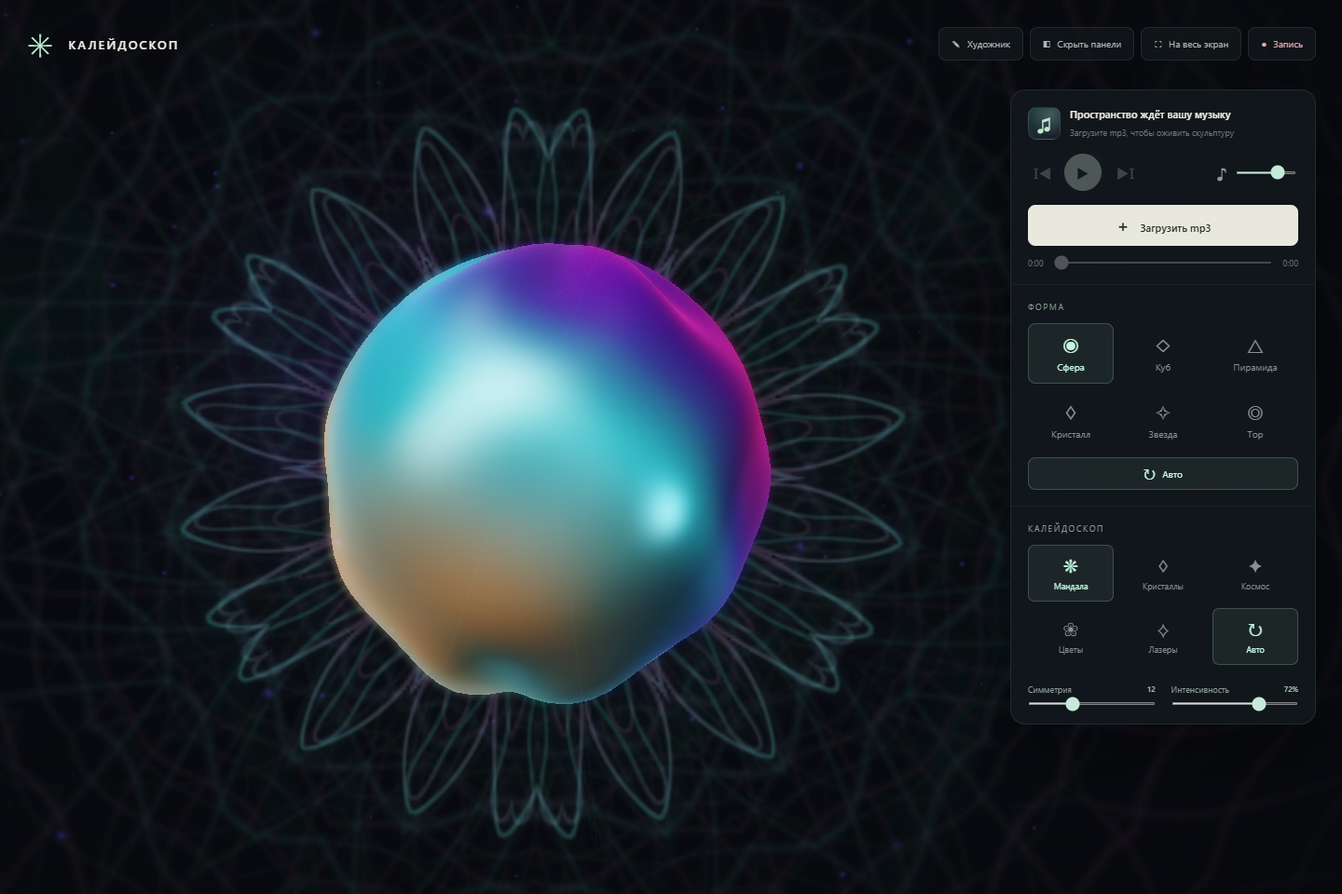
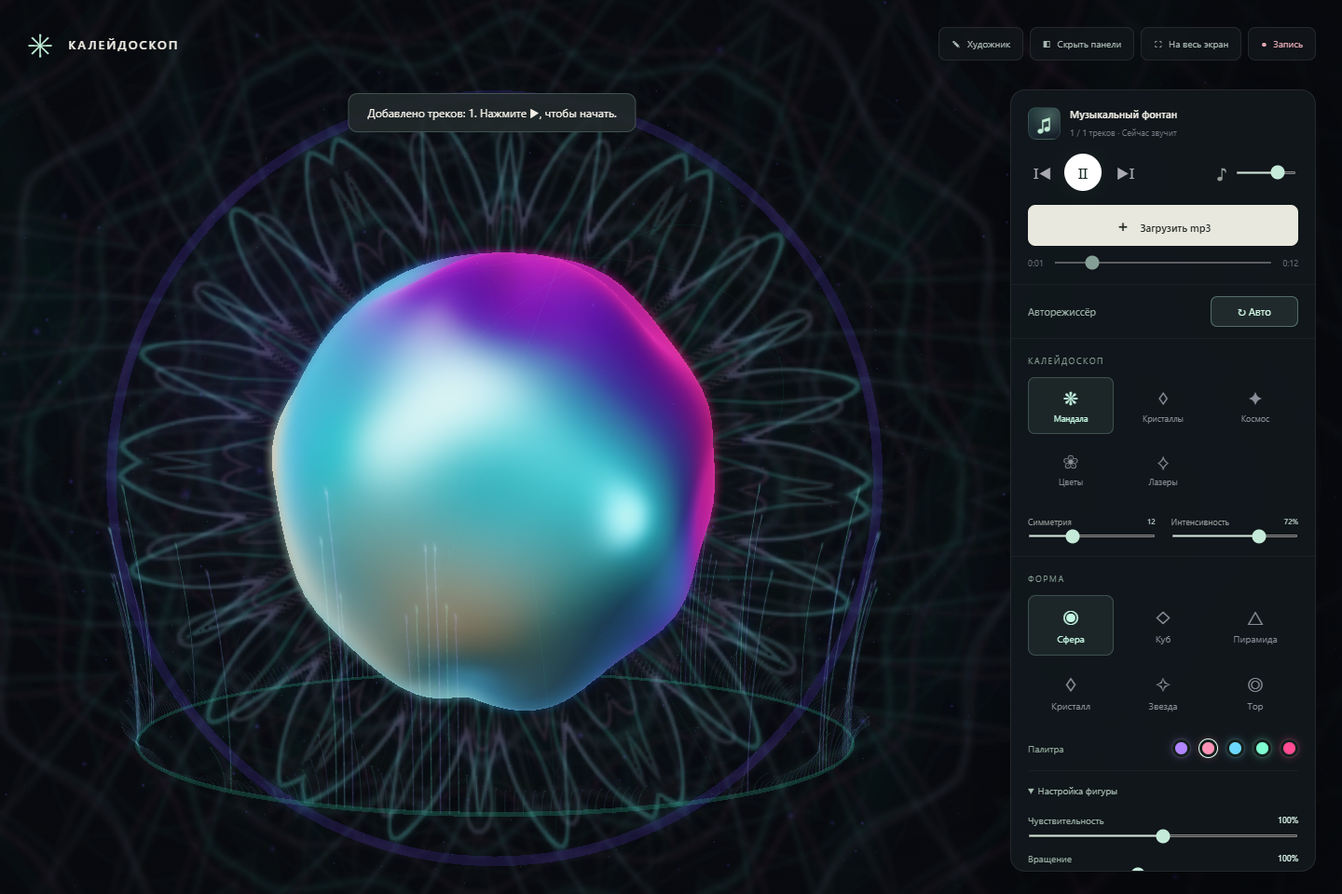
Add spectral fountain and sculpture controls; unify show automation

diff --git a/js/visual.js b/js/visual.js
@@ -1,5 +1,6 @@
 import * as T from '../vendor/three.module.js';
 import {Kaleidoscope} from './kaleidoscope.js';
+import {SpectralFountain} from './fountain.js';
 
 const vertex=`
 attribute vec3 target, surfaceNormal, targetNormal;
@@ -11,7 +12,7 @@ vec3 smoothNormal=normalize(mix(surfaceNormal,targetNormal,morph));
 vNormal=normalMatrix*normalize(smoothNormal+n*wave*.025);
 vec4 mv=modelViewMatrix*vec4(p,1.);vView=mv.xyz;gl_Position=projectionMatrix*mv;}`;
 const fragment=`
-uniform float time,mid,energy,volume,beat,hue,saturation,showAccent;varying vec3 vP,vView,vNormal;
+uniform float time,mid,energy,volume,beat,hue,saturation,showAccent,brightness;varying vec3 vP,vView,vNormal;
 vec3 palette(float t){
   vec3 violet=vec3(.24,.025,.55),pink=vec3(.95,.055,.34);
   vec3 amber=vec3(1.,.37,.045),cyan=vec3(.035,.57,.66);
@@ -35,7 +36,7 @@ color+=palette(flow+.83)*rim*(.7+volume*.4+beat*.75);
 color+=mix(col,vec3(1.,.78,.65),.65)*softSpec*.65;
 color+=vec3(.4,.85,1.)*glint*.65;
 color=mix(vec3(dot(color,vec3(.2126,.7152,.0722))),color,saturation);
-gl_FragColor=vec4(color*(1.+volume*.35+beat*.85+showAccent*.75),1.);}`;
+gl_FragColor=vec4(color*(1.+volume*.35+beat*.85+showAccent*.75)*brightness,1.);}`;
 
 // Identical UV triangle layout for all shapes, including the torus. Only the
 // attributes change at selection; the transition itself is evaluated on GPU.
@@ -62,31 +63,32 @@ function shapes(){
 export class Visual {
  constructor(host,onQuality){
   this.host=host;this.onQuality=onQuality;this.renderer=new T.WebGLRenderer({antialias:false,powerPreference:'high-performance'});host.append(this.renderer.domElement);this.renderer.setClearColor(0x07080b);this.scene=new T.Scene();this.camera=new T.PerspectiveCamera(38,1,.1,60);this.camera.position.set(0,0,7.5);
-  this.uniforms={time:{value:0},morph:{value:1},bass:{value:0},mid:{value:0},energy:{value:0},volume:{value:0},beat:{value:0},hue:{value:0},saturation:{value:1},showAccent:{value:0}};
+  this.uniforms={time:{value:0},morph:{value:1},bass:{value:0},mid:{value:0},energy:{value:0},volume:{value:0},beat:{value:0},hue:{value:0},saturation:{value:1},showAccent:{value:0},brightness:{value:1},effects:{value:1}};
+  this.controls={rotation:1,brightness:1,size:1,effects:1,palette:0};this.qualityMode='auto';
   const data=shapes();this.arrays=data.arrays;this.normals=data.normals;this.geometry=new T.BufferGeometry();this.geometry.setAttribute('position',new T.BufferAttribute(data.arrays[0].slice(),3));this.geometry.setAttribute('target',new T.BufferAttribute(data.arrays[0].slice(),3));this.geometry.setAttribute('surfaceNormal',new T.BufferAttribute(data.normals[0].slice(),3));this.geometry.setAttribute('targetNormal',new T.BufferAttribute(data.normals[0].slice(),3));this.geometry.boundingSphere=new T.Sphere(new T.Vector3(),3);
   // Smooth pearlescent skin: no wire overlay or duplicate inner silhouette.
   this.material=new T.ShaderMaterial({uniforms:this.uniforms,vertexShader:vertex,fragmentShader:fragment,side:T.DoubleSide});this.group=new T.Group();this.mesh=new T.Mesh(this.geometry,this.material);this.group.add(this.mesh);this.scene.add(this.group);this.group.rotation.set(.15,.2,-.13);
   this.kaleidoscope=new Kaleidoscope();this.scene.background=this.kaleidoscope.targetTexture.texture;
-  this.makeAtmosphere();this.makeBeatEffects();this.makePost();this.quality=1;this.slow=0;this.frames=0;this.totalTime=0;this.drag=false;this.vx=0;this.vy=0;this.auto=1;
+  this.makeAtmosphere();this.makeBeatEffects();this.makePost();this.fountain=new SpectralFountain(this.kaleidoscope.tint,this.kaleidoscope.tintSecondary);this.scene.add(this.fountain.group);this.quality=1;this.slow=0;this.frames=0;this.totalTime=0;this.drag=false;this.vx=0;this.vy=0;this.auto=1;
   this.interactionHold=0;this.userCamera={yaw:0,pitch:0,zoom:1};this.cameraMotion={yaw:0,pitch:0,zoom:1};this.frameCenter=new T.Vector2(.58,.5);this.averageFps=60;this.bind();this.resize();
  }
  makeAtmosphere(){
   const count=1800,p=new Float32Array(count*3),seed=new Float32Array(count);for(let i=0;i<count;i++){p[i*3]=(Math.random()-.5)*17;p[i*3+1]=(Math.random()-.5)*11;p[i*3+2]=(Math.random()-.5)*13;seed[i]=Math.random();}
   const g=new T.BufferGeometry();g.setAttribute('position',new T.BufferAttribute(p,3));g.setAttribute('seed',new T.BufferAttribute(seed,1));this.particleGeometry=g;
-  this.particleUniforms={time:this.uniforms.time,high:{value:0},energy:this.uniforms.energy,pixel:{value:1},tint:{value:this.kaleidoscope.tint},tintSecondary:{value:this.kaleidoscope.tintSecondary}};
-  this.particles=new T.Points(g,new T.ShaderMaterial({uniforms:this.particleUniforms,transparent:true,depthWrite:false,blending:T.AdditiveBlending,vertexShader:`attribute float seed;uniform float time,high,pixel;varying float s;void main(){s=seed;vec3 p=position;p.x+=sin(time*.07+seed*12.)*.7;p.y+=sin(time*.1+seed*20.)*.5;p.z+=sin(time*.08+seed*30.)*1.2;vec4 mv=modelViewMatrix*vec4(p,1.);gl_PointSize=min(28.,(1.5+pow(seed,12.)*30.+high*4.)*pixel*6./max(1.,-mv.z));gl_Position=projectionMatrix*mv;}`,fragmentShader:`uniform float time,high;uniform vec3 tint,tintSecondary;varying float s;void main(){float d=length(gl_PointCoord-.5)*2.;if(d>1.)discard;float a=pow(1.-d,3.)*(.3+high*.65)*(.7+.3*sin(time*(1.+high*4.)+s*40.));vec3 c=mix(tint,tintSecondary,s);gl_FragColor=vec4(c,a);}`}));this.scene.add(this.particles);
+  this.particleUniforms={fx:this.uniforms.effects,time:this.uniforms.time,high:{value:0},energy:this.uniforms.energy,pixel:{value:1},tint:{value:this.kaleidoscope.tint},tintSecondary:{value:this.kaleidoscope.tintSecondary}};
+  this.particles=new T.Points(g,new T.ShaderMaterial({uniforms:this.particleUniforms,transparent:true,depthWrite:false,blending:T.AdditiveBlending,vertexShader:`attribute float seed;uniform float time,high,pixel;varying float s;void main(){s=seed;vec3 p=position;p.x+=sin(time*.07+seed*12.)*.7;p.y+=sin(time*.1+seed*20.)*.5;p.z+=sin(time*.08+seed*30.)*1.2;vec4 mv=modelViewMatrix*vec4(p,1.);gl_PointSize=min(28.,(1.5+pow(seed,12.)*30.+high*4.)*pixel*6./max(1.,-mv.z));gl_Position=projectionMatrix*mv;}`,fragmentShader:`uniform float time,high,fx;uniform vec3 tint,tintSecondary;varying float s;void main(){float d=length(gl_PointCoord-.5)*2.;if(d>1.)discard;float a=pow(1.-d,3.)*(.3+high*.65)*(.7+.3*sin(time*(1.+high*4.)+s*40.));vec3 c=mix(tint,tintSecondary,s);gl_FragColor=vec4(c,a*fx);}`}));this.scene.add(this.particles);
   this.orbits=new T.Group();this.scene.add(this.orbits);for(let k=0;k<5;k++){const verts=[],colors=[];const color=new T.Color();for(let i=0;i<=256;i++){let a=i/256*Math.PI*2;verts.push(Math.cos(a)*(2.05+k*.12),Math.sin(a)*(2.05+k*.12),0);color.setHSL(.47+i/256*.35,.7,.5);colors.push(color.r,color.g,color.b);}let geo=new T.BufferGeometry();geo.setAttribute('position',new T.Float32BufferAttribute(verts,3));geo.setAttribute('color',new T.Float32BufferAttribute(colors,3));const line=new T.Line(geo,new T.LineBasicMaterial({vertexColors:true,transparent:true,opacity:.08+k*.012,blending:T.AdditiveBlending,depthWrite:false}));line.rotation.set(.95+k*.2,.2+k*.5,k*.6);this.orbits.add(line);}
   // One generated glow texture, shared by all atmospheric sprites.
   const canvas=document.createElement('canvas');canvas.width=canvas.height=128;const ctx=canvas.getContext('2d'),grad=ctx.createRadialGradient(64,64,0,64,64,64);grad.addColorStop(0,'#ffffff');grad.addColorStop(.15,'#ffffff80');grad.addColorStop(.5,'#ffffff19');grad.addColorStop(1,'#ffffff00');ctx.fillStyle=grad;ctx.fillRect(0,0,128,128);const texture=new T.CanvasTexture(canvas);this.glows=[];
   [[0,0,-2,6,0x127c78,.15],[1,-.5,-4,6,0x8d2259,.13],[-2,1,-5,8,0x153c50,.11],[-2.9,.8,1.3,3,0x65cbb3,.04],[2.8,-.8,2,2.4,0xa66ec4,.04],[-3,-2,3,1.2,0x94c5d9,.035],[3,2,-1,1.8,0xcc87b0,.05]].forEach(([x,y,z,size,color,opacity])=>{const sp=new T.Sprite(new T.SpriteMaterial({map:texture,color,transparent:true,opacity,blending:T.AdditiveBlending,depthWrite:false}));sp.position.set(x,y,z);sp.scale.set(size,size,1);sp.userData.opacity=opacity;this.scene.add(sp);this.glows.push(sp);});
   const rayGeometry=new T.PlaneGeometry(1,1);this.rays=new T.Group();
-  const rayMaterial=new T.ShaderMaterial({uniforms:{time:this.uniforms.time,energy:this.uniforms.energy,beat:this.uniforms.beat,tint:{value:this.kaleidoscope.tint}},transparent:true,depthWrite:false,side:T.DoubleSide,blending:T.AdditiveBlending,vertexShader:`varying vec2 vUv;void main(){vUv=uv;gl_Position=projectionMatrix*modelViewMatrix*vec4(position,1.);}`,fragmentShader:`varying vec2 vUv;uniform float time,energy,beat;uniform vec3 tint;void main(){float width=.09+.12*vUv.y;float shaft=exp(-pow((vUv.x-.5)/width,2.));float fade=pow(sin(vUv.y*3.14159),2.);float haze=.7+.3*sin(vUv.y*9.+time*.14);gl_FragColor=vec4(tint,shaft*fade*haze*(.025+energy*.035+beat*.025));}`});
+  const rayMaterial=new T.ShaderMaterial({uniforms:{time:this.uniforms.time,energy:this.uniforms.energy,beat:this.uniforms.beat,fx:this.uniforms.effects,tint:{value:this.kaleidoscope.tint}},transparent:true,depthWrite:false,side:T.DoubleSide,blending:T.AdditiveBlending,vertexShader:`varying vec2 vUv;void main(){vUv=uv;gl_Position=projectionMatrix*modelViewMatrix*vec4(position,1.);}`,fragmentShader:`varying vec2 vUv;uniform float time,energy,beat,fx;uniform vec3 tint;void main(){float width=.09+.12*vUv.y;float shaft=exp(-pow((vUv.x-.5)/width,2.));float fade=pow(sin(vUv.y*3.14159),2.);float haze=.7+.3*sin(vUv.y*9.+time*.14);gl_FragColor=vec4(tint,shaft*fade*haze*(.025+energy*.035+beat*.025)*fx);}`});
   for(let i=0;i<7;i++){const ray=new T.Mesh(rayGeometry,rayMaterial);ray.position.set((i-3)*1.45,.5,-3+(i%3)*2.3);ray.scale.set(.65+i%2*.6,9+i%3,1);ray.rotation.z=(i-3)*-.17;this.rays.add(ray);}this.scene.add(this.rays);
  }
  makeBeatEffects(){
   // Four fixed slots allow overlapping beats without allocating per hit.
   this.beatWaves=[];const geometry=new T.RingGeometry(1,1.026,128);
-  this.burstUniforms={pulses:{value:Array.from({length:4},()=>new T.Vector4(2,0,0,0))},pixel:{value:1},tint:{value:this.kaleidoscope.tint},tintSecondary:{value:this.kaleidoscope.tintSecondary}};
+  this.burstUniforms={fx:this.uniforms.effects,pulses:{value:Array.from({length:4},()=>new T.Vector4(2,0,0,0))},pixel:{value:1},tint:{value:this.kaleidoscope.tint},tintSecondary:{value:this.kaleidoscope.tintSecondary}};
   for(let i=0;i<4;i++){
    const material=new T.MeshBasicMaterial({color:i%2?0xf778ba:0x8effec,transparent:true,opacity:0,blending:T.AdditiveBlending,side:T.DoubleSide,depthWrite:false});
    const wave=new T.Mesh(geometry,material);wave.visible=false;this.scene.add(wave);this.beatWaves.push(wave);
@@ -100,7 +102,7 @@ export class Visual {
     float radius=1.5+age*(2.5+seed*1.5);vec3 p=position*radius;p.y-=age*age*.3;
     alpha=alive*strength*pow(max(0.,1.-age/1.05),2.)*min(1.,age/.012);
     vTint=mix(tint,tintSecondary,seed);vec4 mv=modelViewMatrix*vec4(p,1.);gl_PointSize=(2.+seed*3.)*pixel*5./max(1.,-mv.z);gl_Position=projectionMatrix*mv;}`,
-   fragmentShader:`varying float alpha;varying vec3 vTint;void main(){float r=length(gl_PointCoord-.5)*2.;if(r>1.)discard;gl_FragColor=vec4(vTint,alpha*pow(1.-r,1.6));}`}));this.scene.add(this.burst);
+   fragmentShader:`uniform float fx;varying float alpha;varying vec3 vTint;void main(){float r=length(gl_PointCoord-.5)*2.;if(r>1.)discard;gl_FragColor=vec4(vTint,alpha*pow(1.-r,1.6)*fx);}`}));this.scene.add(this.burst);
  }
  makePost(){
   this.base=new T.WebGLRenderTarget(1,1);this.bloom=new T.WebGLRenderTarget(1,1,{depthBuffer:false});this.postScene=new T.Scene();this.postCamera=new T.OrthographicCamera(-1,1,1,-1,0,1);this.postUniforms={image:{value:this.base.texture},glow:{value:this.bloom.texture},texel:{value:new T.Vector2()},pass:{value:0},energy:this.uniforms.energy};
@@ -120,7 +122,7 @@ export class Visual {
   const freeWidth=sidebar?Math.max(300,bounds.left-28):w;
   const top=hidden?h*.07:w<760?116:96,bottom=hidden?h*.93:sidebar?h-28:bounds.top-hostTop-20;
   const available=Math.max(145,bottom-top),centerY=top+available*.5,centerX=sidebar?freeWidth*.5/w:.5;
-  this.diameter=Math.min(freeWidth*.8,available*.9);this.layoutX=centerX;this.layoutY=centerY/h;
+  this.diameter=Math.min(freeWidth*.8,available*.9);this.freeWidth=freeWidth;this.freeHeight=available;this.layoutX=centerX;this.layoutY=centerY/h;
   const dpr=Math.min(devicePixelRatio,1.65)*this.quality;
   this.renderer.setPixelRatio(dpr);this.renderer.setSize(w,h);this.camera.aspect=w/h;
   this.camera.setViewOffset(w,h,w*(.5-this.frameCenter.x),h*(.5-this.frameCenter.y),w,h);this.camera.updateProjectionMatrix();
@@ -133,7 +135,8 @@ export class Visual {
   m.yaw+=((manual?u.yaw:show.cameraYaw+u.yaw)-m.yaw)*ease;m.pitch+=((manual?u.pitch:show.cameraPitch+u.pitch)-m.pitch)*ease;m.zoom+=((manual?u.zoom:show.zoom*u.zoom)-m.zoom)*ease;
   this.frameCenter.x+=(this.layoutX-this.frameCenter.x)*ease;this.frameCenter.y+=(this.layoutY-this.frameCenter.y)*ease;
   const fov=this.camera.fov+(show.fov-this.camera.fov)*returnEase,tan=Math.tan(fov*Math.PI/360);
-  const wanted=4.65*this.height/(2*tan*this.diameter)*m.zoom,safe=4.35*this.height/(2*tan*this.diameter);
+  const extent=5.5+Math.max(0,this.controls.size-1)*2.6;
+  const wanted=4.65*this.height/(2*tan*this.diameter)*m.zoom,safe=Math.max(4.35*this.height/(2*tan*this.diameter),extent*this.height/(2*tan*this.freeWidth*.92));
   m.distance??=wanted;m.distance+=(wanted-m.distance)*ease;const distance=Math.max(m.distance,safe);
   this.camera.position.set(Math.sin(m.yaw)*distance,Math.sin(m.pitch)*distance,Math.cos(m.yaw)*distance);this.camera.lookAt(0,0,0);
   this.camera.fov=fov;this.camera.setViewOffset(this.width,this.height,this.width*(.5-this.frameCenter.x),this.height*(.5-this.frameCenter.y),this.width,this.height);this.camera.updateProjectionMatrix();
@@ -141,18 +144,22 @@ export class Visual {
  }
  update(dt,t,music,show){if(this.lost)return;const u=this.uniforms;u.time.value=t;for(const k of ['bass','mid','energy','volume','beat'])u[k].value=music[k];this.particleUniforms.high.value=music.high;
   this.averageFps+=(Math.min(120,1/Math.max(.001,dt))-this.averageFps)*(1-Math.exp(-dt));
-  u.hue.value=show.palette;u.saturation.value=show.saturation;u.showAccent.value=show.accent;
-  this.updateCamera(dt,show);this.kaleidoscope.update(dt,t,music,show);
+  const controls=this.controls,fx=controls.effects;
+  u.hue.value=show.palette+controls.palette;u.saturation.value=show.saturation;u.showAccent.value=show.accent;u.brightness.value+=(controls.brightness-u.brightness.value)*(1-Math.exp(-dt*6));u.effects.value=fx;
+  this.kaleidoscope.paletteOffset=controls.palette;this.updateCamera(dt,show);this.kaleidoscope.update(dt,t,music,show);this.fountain.update(t,music,controls.size,fx*show.atmosphere);
   if(u.morph.value<1){this.morphTime+=dt/2.1;const x=Math.min(1,this.morphTime);u.morph.value=x*x*(3-2*x);}
-  this.group.scale.setScalar(1+.15*music.beat);
+  this.group.scale.setScalar(controls.size*(1+.15*music.beat));
   for(let i=0;i<4;i++){const pulse=music.pulses[i],age=pulse?.age??2,strength=pulse?.strength??0,wave=this.beatWaves[i];this.burstUniforms.pulses.value[i].set(age,strength,0,0);wave.material.color.copy(i%2?this.kaleidoscope.tintSecondary:this.kaleidoscope.tint);wave.visible=age<1.05&&strength>0;if(wave.visible){wave.scale.setScalar(1.55+age*3.1);wave.material.opacity=strength*Math.min(1,age/.012)*Math.exp(-age*4.4)*.75;}}
-  this.auto+=((this.drag||this.artist?.drawing?0:1)-this.auto)*(1-Math.exp(-dt*2));this.group.rotation.y+=dt*(.13+music.energy*.045)*show.motion*this.auto+this.vy;this.group.rotation.x+=dt*.032*show.motion*this.auto+this.vx;const damping=Math.exp(-dt*12);this.vx*=damping;this.vy*=damping;
+  this.auto+=((this.drag||this.artist?.drawing?0:1)-this.auto)*(1-Math.exp(-dt*2));this.group.rotation.y+=dt*(.13+music.energy*.045)*show.motion*controls.rotation*this.auto+this.vy;this.group.rotation.x+=dt*.032*show.motion*controls.rotation*this.auto+this.vx;const damping=Math.exp(-dt*12);this.vx*=damping;this.vy*=damping;
   this.orbits.rotation.y=t*.025;this.orbits.rotation.z=Math.sin(t*.05)*.15;this.particles.rotation.y=t*.008;this.rays.rotation.z=Math.sin(t*.07)*.06;
-  this.orbits.children.forEach(line=>{line.material.color.copy(this.kaleidoscope.tint);line.material.opacity=.045+music.energy*.04;});
-  this.glows.forEach((g,i)=>{g.material.color.copy(this.kaleidoscope.tint).lerp(this.kaleidoscope.tintSecondary,(i%3)*.5);g.material.opacity=(g.userData.opacity+music.volume*.05+music.beat*.025)*(1+Math.sin(t*.3+i)*.15)*show.atmosphere;});
+  this.orbits.children.forEach(line=>{line.material.color.copy(this.kaleidoscope.tint);line.material.opacity=(.045+music.energy*.04)*fx;});
+  this.particles.visible=this.rays.visible=this.burst.visible=fx>.001;
+  this.beatWaves.forEach(wave=>{wave.material.opacity*=fx;if(fx===0)wave.visible=false;});
+  this.glows.forEach((g,i)=>{g.material.color.copy(this.kaleidoscope.tint).lerp(this.kaleidoscope.tintSecondary,(i%3)*.5);g.material.opacity=(g.userData.opacity+music.volume*.05+music.beat*.025)*(1+Math.sin(t*.3+i)*.15)*show.atmosphere*fx;});
   const r=this.renderer;this.kaleidoscope.render(r);r.setRenderTarget(this.base);r.render(this.scene,this.camera);this.postUniforms.pass.value=0;this.postUniforms.glow.value=null;r.setRenderTarget(this.bloom);r.render(this.postScene,this.postCamera);this.postUniforms.pass.value=1;this.postUniforms.glow.value=this.bloom.texture;r.setRenderTarget(null);r.render(this.postScene,this.postCamera);
-  if(dt<.2){this.frames++;this.totalTime+=dt;if(this.frames>=150){const fps=this.frames/this.totalTime;if(fps<43)this.slow++;else this.slow=0;if(this.slow>=2&&this.quality>.55){this.quality=Math.max(.55,this.quality-.2);this.particleGeometry.setDrawRange(0,Math.floor(1800*this.quality));this.resize();this.onQuality('ЭКОНОМНЫЙ РЕЖИМ');this.slow=0;}this.frames=0;this.totalTime=0;}}
+  if(dt<.2&&this.qualityMode==='auto'){this.frames++;this.totalTime+=dt;if(this.frames>=150){const fps=this.frames/this.totalTime;if(fps<43)this.slow++;else this.slow=0;if(this.slow>=2&&this.quality>.55){this.quality=Math.max(.55,this.quality-.2);this.particleGeometry.setDrawRange(0,Math.floor(1800*this.quality));this.resize();this.onQuality('ЭКОНОМНЫЙ РЕЖИМ');this.slow=0;}this.frames=0;this.totalTime=0;}}
  }
+ setQuality(mode){this.qualityMode=mode;this.quality=({auto:1,high:1,balanced:.78,low:.55})[mode]??1;this.frames=this.totalTime=this.slow=0;this.particleGeometry.setDrawRange(0,Math.floor(1800*this.quality));this.resize();}
  dispose(){
   this.kaleidoscope.dispose();this.base.dispose();this.bloom.dispose();
   const geometries=new Set(),materials=new Set(),textures=new Set();

diff --git a/index.html b/index.html
@@ -7,12 +7,14 @@
   <div class="vignette"></div>
   <header><a class="brand" href="./"><span class="brand-mark">✳</span><span>КАЛЕЙДОСКОП</span></a><div class="show-tools"><button id="artist-toggle" aria-pressed="false">✎ <span>Художник</span></button><button id="hide-panels" title="Скрыть панели · H">◧ <span>Скрыть панели</span></button><button id="fullscreen" aria-label="На весь экран">⛶ <span>На весь экран</span></button><button id="record-start">● <span>Запись</span></button><button id="record-stop" hidden>■ Стоп</button><span id="record-status" hidden><i></i><time id="record-time">0:00</time></span></div></header>
   <button id="show-panels" aria-label="Показать панели">Показать панели <kbd>H</kbd></button>
-  <section class="console" aria-label="Управление визуализатором">
+  <section class="console" aria-label="Управление визуализатором"><div class="show-auto-row"><span>Авторежиссёр</span><button id="auto-show" class="selected" aria-pressed="true" title="Автоматически управлять формой, стилем, палитрой и камерой">↻ Авто</button></div>
     <div id="artist-tools" class="artist-tools" hidden><span class="section-label">ХУДОЖНИК</span><label class="magic-select">Кисть<select id="brush-type" aria-label="Волшебная кисть"><option value="fire">Огненная</option><option value="electric">Электрическая</option><option value="star">Звёздная</option><option value="smoke">Дымчатая</option><option value="crystal">Кристальная</option></select></label><label class="magic-select">Оживление<select id="stroke-life" aria-label="Оживление новых штрихов"><option value="plants">Растения</option><option value="particles">Частицы</option><option value="flow">Течение</option></select></label><div class="brush-colors" role="group" aria-label="Цвет кисти"><button data-color="#79ffe1" style="--swatch:#79ffe1" aria-label="Мятный" aria-pressed="false"></button><button data-color="#ff6cbd" style="--swatch:#ff6cbd" aria-label="Розовый" aria-pressed="false"></button><button data-color="#a78bff" style="--swatch:#a78bff" aria-label="Фиолетовый" aria-pressed="false"></button><button data-color="#ffc379" style="--swatch:#ffc379" aria-label="Золотой" aria-pressed="false"></button><button data-color="#eafcff" style="--swatch:#eafcff" aria-label="Белый" aria-pressed="false"></button><input id="brush-color" type="color" value="#ff9b59" aria-label="Свой цвет кисти"></div><label class="brush-width">Толщина <output id="brush-width-value">5</output><input id="brush-width" type="range" min="1" max="16" value="5" step="1" aria-label="Толщина кисти"></label><button id="clear-art" class="quiet-button">Очистить рисунок</button><span class="artist-hint">Отпустите кисть — рисунок оживёт</span></div>
+
+    <div class="kaleido-row"><span class="section-label">КАЛЕЙДОСКОП</span><div class="styles" role="group" aria-label="Стиль калейдоскопа"><button data-style="0" class="selected" aria-pressed="true"><b>❋</b>Мандала</button><button data-style="1" aria-pressed="false"><b>♢</b>Кристаллы</button><button data-style="2" aria-pressed="false"><b>✦</b>Космос</button><button data-style="3" aria-pressed="false"><b>❀</b>Цветы</button><button data-style="4" aria-pressed="false" aria-label="Лазерное шоу"><b>⟡</b>Лазеры</button></div><div class="kaleido-sliders"><label>Симметрия <output id="symmetry-value">12</output><input id="symmetry" type="range" min="6" max="24" step="2" value="12" aria-label="Количество зеркальных секторов"></label><label>Интенсивность <output id="intensity-value">72%</output><input id="intensity" type="range" min="0" max="100" step="1" value="72" aria-label="Интенсивность калейдоскопа"></label></div></div>
     <div class="shape-row"><span class="section-label">ФОРМА</span><div class="shapes" role="group" aria-label="Форма скульптуры">
     <button data-shape="0" class="selected" aria-pressed="true"><b>◉</b>Сфера</button><button data-shape="1" aria-pressed="false"><b>◇</b>Куб</button><button data-shape="2" aria-pressed="false"><b>△</b>Пирамида</button><button data-shape="3" aria-pressed="false"><b>♢</b>Кристалл</button><button data-shape="4" aria-pressed="false"><b>✧</b>Звезда</button><button data-shape="5" aria-pressed="false"><b>◎</b>Тор</button>
-    <button id="auto-shape" class="selected" aria-pressed="true" title="Музыкальный авторежиссёр: формы, стили, цвета и камера"><b>↻</b>Авто</button></div><div class="auto-tag"><i></i><span id="quality">АВТОКАЧЕСТВО</span></div></div>
-    <div class="kaleido-row"><span class="section-label">КАЛЕЙДОСКОП</span><div class="styles" role="group" aria-label="Стиль калейдоскопа"><button data-style="0" class="selected" aria-pressed="true"><b>❋</b>Мандала</button><button data-style="1" aria-pressed="false"><b>♢</b>Кристаллы</button><button data-style="2" aria-pressed="false"><b>✦</b>Космос</button><button data-style="3" aria-pressed="false"><b>❀</b>Цветы</button><button data-style="4" aria-pressed="false" aria-label="Лазерное шоу"><b>⟡</b>Лазеры</button><button id="auto-style" class="selected auto-style" aria-pressed="true" title="Менять стили каждые 24–27 секунд, по возможности на ударе"><b>↻</b>Авто</button></div><div class="kaleido-sliders"><label>Симметрия <output id="symmetry-value">12</output><input id="symmetry" type="range" min="6" max="24" step="2" value="12" aria-label="Количество зеркальных секторов"></label><label>Интенсивность <output id="intensity-value">72%</output><input id="intensity" type="range" min="0" max="100" step="1" value="72" aria-label="Интенсивность калейдоскопа"></label></div></div>
+    </div><div class="figure-palette" role="group" aria-label="Палитра сцены"><span>Палитра</span><button data-palette="0.16" style="--swatch:#b185ff" aria-label="Фиолетовая палитра" aria-pressed="false"></button><button data-palette="0" class="selected" style="--swatch:#ff93b6" aria-label="Палитра Закат" aria-pressed="true"></button><button data-palette="0.5" style="--swatch:#6dd8ff" aria-label="Ледяная палитра" aria-pressed="false"></button><button data-palette="0.7" style="--swatch:#7fffd2" aria-label="Мятная палитра" aria-pressed="false"></button><button data-palette="0.88" style="--swatch:#ff4c92" aria-label="Неоновая палитра" aria-pressed="false"></button></div>
+<details class="figure-settings" open><summary>Настройка фигуры</summary><div class="figure-sliders"><label>Чувствительность <output id="sensitivity-value">100%</output><input id="sensitivity" type="range" min="0" max="200" step="1" value="100" aria-label="Чувствительность к музыке"></label><label>Вращение <output id="rotation-value">100%</output><input id="rotation" type="range" min="0" max="250" step="1" value="100" aria-label="Скорость вращения фигуры"></label><label>Яркость <output id="brightness-value">100%</output><input id="brightness" type="range" min="20" max="200" step="1" value="100" aria-label="Яркость фигуры"></label><label>Размер <output id="size-value">100%</output><input id="size" type="range" min="50" max="135" step="1" value="100" aria-label="Размер фигуры"></label><label>Эффекты <output id="effects-value">100%</output><input id="effects" type="range" min="0" max="200" step="1" value="100" aria-label="Интенсивность эффектов и фонтана"></label></div><label class="quality-picker">Качество<select id="graphics-quality" aria-label="Качество графики"><option value="auto">Авто</option><option value="high">Высокое</option><option value="balanced">Среднее</option><option value="low">Экономное</option></select></label></details><div class="auto-tag"><i></i><span id="quality">АВТОКАЧЕСТВО</span></div></div>
     <div class="player-row"><div class="track"><div class="album">♫</div><div class="track-copy"><strong id="track-name">Пространство ждёт вашу музыку</strong><span id="track-info">Загрузите mp3, чтобы оживить скульптуру</span></div></div><div class="transport"><button id="previous" class="icon" aria-label="Предыдущий трек" disabled>Ⅰ◀</button><button id="play" aria-label="Воспроизвести" disabled>▶</button><button id="next" class="icon" aria-label="Следующий трек" disabled>▶Ⅰ</button></div><label class="volume" title="Громкость">♪ <input id="volume" type="range" min="0" max="1" value="0.75" step="0.01" aria-label="Громкость"></label><button id="upload" class="upload"><span>＋</span> Загрузить mp3</button><input type="file" id="files" accept=".mp3,audio/mpeg" multiple hidden></div>
     <div class="timeline"><span id="elapsed">0:00</span><input id="seek" type="range" min="0" max="100" value="0" step="0.1" aria-label="Позиция трека" disabled><span id="duration">0:00</span></div>
   </section>

diff --git a/js/fountain.js b/js/fountain.js
@@ -1,0 +1,20 @@
+import * as T from '../vendor/three.module.js';
+
+// 320 ribbons share one instanced geometry. Heights come only from smoothed
+// logarithmic spectrum bands; moving highlights simulate the flow of water.
+export class SpectralFountain {
+ constructor(tint,secondary){
+  this.group=new T.Group();const source=new T.PlaneGeometry(2,1,1,12);source.translate(0,.5,0);
+  const geometry=new T.InstancedBufferGeometry();geometry.index=source.index.clone();geometry.setAttribute('position',source.attributes.position.clone());geometry.setAttribute('uv',source.attributes.uv.clone());source.dispose();
+  const count=320,angles=new Float32Array(count),bands=new Float32Array(count),seeds=new Float32Array(count);
+  for(let i=0;i<count;i++){angles[i]=i/count*Math.PI*2;bands[i]=i%64;seeds[i]=(i*.61803398875)%1;}
+  geometry.setAttribute('aAngle',new T.InstancedBufferAttribute(angles,1));geometry.setAttribute('aBand',new T.InstancedBufferAttribute(bands,1));geometry.setAttribute('aSeed',new T.InstancedBufferAttribute(seeds,1));geometry.instanceCount=count;geometry.boundingSphere=new T.Sphere(new T.Vector3(),6);
+  this.uniforms={spectrum:{value:new Float32Array(64)},time:{value:0},radius:{value:2.35},effects:{value:1},beat:{value:0},tint:{value:tint},secondary:{value:secondary}};
+  this.material=new T.ShaderMaterial({uniforms:this.uniforms,transparent:true,depthWrite:false,blending:T.AdditiveBlending,side:T.DoubleSide,
+   vertexShader:`attribute float aAngle,aBand,aSeed;uniform float spectrum[64],time,radius;varying vec2 vUv;varying float level,seed;void main(){vUv=uv;seed=aSeed;level=spectrum[int(aBand)];float t=position.y;float h=.035+pow(level,.75)*3.15;float r=radius+t*t*(.1+level*.28);vec3 p=vec3(cos(aAngle)*r,-1.68+t*h,sin(aAngle)*r);p.x+=sin(t*7.-time*1.2+aSeed*6.28)*.012*t*level;vec4 mv=modelViewMatrix*vec4(p,1.);mv.x+=position.x*(.009+.007*level)*(1.+smoothstep(.93,1.,t));gl_Position=projectionMatrix*mv;}`,
+   fragmentShader:`uniform float time,effects,beat;uniform vec3 tint,secondary;varying vec2 vUv;varying float level,seed;void main(){float x=(vUv.x-.5)*2.;float core=exp(-x*x*8.);float tip=pow(vUv.y,20.);float droplets=pow(.5+.5*sin(vUv.y*90.-time*(8.+seed*5.)+seed*40.),18.);float fade=1.-smoothstep(.97,1.,vUv.y);vec3 color=mix(tint,secondary,.5+.5*sin(seed*6.28+vUv.y*2.));color=mix(color,vec3(.8,1.,.96),core*.3+tip*.2);float a=core*(.13+level*.75)*( .6+droplets*.4+tip*.35)*effects*(1.+beat*.35);gl_FragColor=vec4(color,a*fade);}`});
+  this.mesh=new T.Mesh(geometry,this.material);this.group.add(this.mesh);
+  this.ring=new T.Mesh(new T.TorusGeometry(2.35,.012,4,256),new T.MeshBasicMaterial({color:0x79e7c9,transparent:true,opacity:.22,blending:T.AdditiveBlending,depthWrite:false}));this.ring.rotation.x=Math.PI*.5;this.ring.position.y=-1.68;this.group.add(this.ring);
+ }
+ update(time,music,size,effects){this.uniforms.time.value=time;this.uniforms.spectrum.value=music.spectrum;this.uniforms.beat.value=music.beat;this.uniforms.effects.value=effects;const radius=2.35+Math.max(0,size-1)*1.3;this.uniforms.radius.value=radius;this.ring.scale.setScalar(radius/2.35);this.ring.material.color.copy(this.uniforms.tint.value);this.ring.material.opacity=.22*effects;this.group.visible=effects>.001;}
+}

diff --git a/style.css b/style.css
@@ -39,3 +39,10 @@
 }
 @media(max-width:959px){.console{bottom:16px}.vignette{background:radial-gradient(ellipse at 50% 38%,transparent 25%,#07080b88 100%)}#experience{min-height:740px}}
 @media(max-width:760px){header{left:20px;right:20px;top:17px}.brand{font-size:11px}.brand-mark{font-size:30px}.console{left:12px;right:12px}.show-tools{gap:5px}}
+
+.console{display:flex;flex-direction:column}.player-row{order:-3}.timeline{order:-2}.show-auto-row{order:-1}.artist-tools{order:0}.kaleido-row{order:1}.shape-row{order:2;display:block}.console .kaleido-row{order:1;border-bottom:1px solid #ffffff0c}.console .shape-row{order:2}
+.show-auto-row{display:flex;align-items:center;justify-content:space-between;padding:12px 18px;border-bottom:1px solid #ffffff0c;color:#9cb0a6;font-size:11px}.show-auto-row button{min-width:94px;padding:8px 16px;border:1px solid #c5ead925;background:#15231f;color:#93a79d;border-radius:7px;font-size:11px}.show-auto-row button.selected{background:#b8eadb18;border-color:#bbf4dc55;color:#d3f8e3}
+.figure-palette{display:flex;align-items:center;gap:10px;margin:18px 0 14px}.figure-palette>span{font-size:10px;color:#92a79b;margin-right:auto}.figure-palette button{width:19px;height:19px;padding:0;border:3px solid #14201c;border-radius:50%;outline:1px solid #ffffff15;background:var(--swatch);box-shadow:0 0 9px color-mix(in srgb,var(--swatch),transparent 60%)}.figure-palette button.selected{outline:1px solid #e1fff1}
+.figure-settings{border-top:1px solid #ffffff0b;padding-top:12px}.figure-settings summary{font-size:10px;color:#a7bcb1;cursor:pointer;padding:2px 0 6px;list-style-position:inside}.figure-settings[open] summary{margin-bottom:12px}.figure-sliders{display:grid;gap:16px}.figure-sliders label{display:grid;grid-template-columns:1fr auto;gap:8px;color:#9bafa5;font-size:10px}.figure-sliders output{font-size:9px;font-variant-numeric:tabular-nums;color:#d1eade}.figure-sliders input{grid-column:1/-1;width:100%;margin:0;height:3px}.quality-picker{display:flex;align-items:center;justify-content:space-between;font-size:10px;color:#93a89e;margin-top:21px}.quality-picker select{font:10px 'Segoe UI',Arial,sans-serif;color:#c9dfd2;background:#192721;border:1px solid #ffffff19;padding:7px 9px;border-radius:6px;min-width:116px}
+@media(min-width:960px){.console .styles{grid-template-columns:repeat(3,minmax(0,1fr))}.console .shape-row{border-bottom:0}.console .kaleido-row{padding-bottom:20px}}
+@media(max-width:959px){.console{max-height:55svh;overflow-y:auto;overflow-x:hidden;scrollbar-width:thin;scrollbar-color:#577b6b55 transparent}.console>*{flex-shrink:0}.figure-palette,.figure-settings{margin-left:6px;margin-right:6px}.console .shape-row{border-bottom:0}.figure-sliders{grid-template-columns:1fr 1fr;gap:17px 22px;padding-top:4px}.quality-picker{margin-bottom:6px}.show-auto-row{padding:10px 15px}.figure-palette{margin-top:12px}.figure-settings summary{font-size:10px}}

diff --git a/js/app.js b/js/app.js
@@ -11,7 +11,7 @@ function message(text){$('message').textContent=text;$('message').classList.add(
 try{visual=new Visual($('stage'),label=>$('quality').textContent=label);}catch(e){const error=document.createElement('p');error.className='error-screen';error.textContent='Для визуализации нужен WebGL 2. Включите аппаратное ускорение и откройте приложение в современном браузере.';$('stage').append(error);console.error(e);}
 
 const director=new ShowDirector((shape,style)=>{selectShape(shape,false);visual?.kaleidoscope.select(style,false);},enabled=>{
- for(const id of ['auto-shape','auto-style']){$(id).classList.toggle('selected',enabled);$(id).setAttribute('aria-pressed',String(enabled));}
+ $('auto-show').classList.toggle('selected',enabled);$('auto-show').setAttribute('aria-pressed',String(enabled));
  if(visual)visual.kaleidoscope.auto=enabled;
 });
 function selectShape(index,manual=true){
@@ -19,7 +19,12 @@ function selectShape(index,manual=true){
  document.querySelectorAll('[data-shape]').forEach(b=>{const selected=Number(b.dataset.shape)===index;b.classList.toggle('selected',selected);b.setAttribute('aria-pressed',String(selected));});
 }
 document.querySelectorAll('[data-shape]').forEach(b=>b.addEventListener('click',()=>selectShape(Number(b.dataset.shape))));
-for(const id of ['auto-shape','auto-style'])$(id).onclick=()=>{director.setAuto(!director.enabled);message(director.enabled?'Авторежиссёр включён: музыка управляет сценами, цветами и камерой.':'Авторежиссёр выключен. Формы и стили выбираете вы.');};
+$('auto-show').onclick=()=>{director.setAuto(!director.enabled);message(director.enabled?'Авторежиссёр включён: музыка управляет сценами, цветами и камерой.':'Авторежиссёр выключен. Формы и стили выбираете вы.');};
+
+for(const key of ['sensitivity','rotation','brightness','size','effects'])$(key).oninput=e=>{const value=Number(e.target.value)/100;$(key+'-value').value=e.target.value+'%';if(key==='sensitivity')bus.sensitivity=value;else if(visual)visual.controls[key]=value;};
+$('graphics-quality').onchange=e=>visual?.setQuality(e.target.value);
+document.querySelectorAll('[data-palette]').forEach(button=>button.onclick=()=>{if(visual)visual.controls.palette=Number(button.dataset.palette);document.querySelectorAll('[data-palette]').forEach(b=>{b.classList.toggle('selected',b===button);b.setAttribute('aria-pressed',String(b===button));});});
+const figureSettings=document.querySelector('.figure-settings');figureSettings.open=window.innerWidth>=960;figureSettings.addEventListener('toggle',()=>visual?.resize());
 
 if(visual){
  const kaleido=visual.kaleidoscope;kaleido.managed=true;

diff --git a/js/audio.js b/js/audio.js
@@ -1,14 +1,28 @@
 import {TrackAnalysis,RhythmTimeline} from './rhythm.js';
 // Meyda supplies atmosphere only. Precomputed events supply every beat effect.
 export class MusicParameters {
-  constructor(){this.target={volume:0,bass:0,mid:0,high:0,energy:0};this.value={...this.target,beat:0,bpm:0,phase:0,pulses:[]};}
+  constructor(){this.target={volume:0,bass:0,mid:0,high:0,energy:0};this.smooth={...this.target};this.sensitivity=1;this.spectrumTarget=new Float32Array(64);this.spectrumSmooth=new Float32Array(64);this.value={...this.target,beat:0,bpm:0,phase:0,pulses:Array.from({length:4},()=>({age:2,strength:0})),spectrum:new Float32Array(64)};}
   ingest(f,sampleRate){
     const s=f.amplitudeSpectrum, bin=sampleRate/(s.length*2);
     const band=(lo,hi)=>{let total=0,n=0;for(let i=Math.max(1,Math.floor(lo/bin));i<Math.min(s.length,hi/bin);i++){total+=s[i]*s[i];n++;}return Math.min(1,Math.sqrt(total)/s.length*5);};
     const bass=band(35,250),mid=band(250,3500),high=band(3500,14000),volume=Math.min(1,f.rms*4);
     Object.assign(this.target,{volume,bass,mid,high,energy:volume*.6+bass*.25+high*.15});
+    for(let band=0;band<64;band++){
+      const lo=40*Math.pow(400,band/64),hi=40*Math.pow(400,(band+1)/64),start=Math.max(1,Math.floor(lo/bin)),end=Math.min(s.length,Math.max(start+1,Math.ceil(hi/bin)));let peak=0,power=0;
+      for(let i=start;i<end;i++){peak=Math.max(peak,s[i]);power+=s[i]*s[i];}
+      const amplitude=(peak*.65+Math.sqrt(power/Math.max(1,end-start))*.35)/s.length*4;
+      this.spectrumTarget[band]=Math.min(1,Math.log1p(amplitude*30)/Math.log(31));
+    }
   }
-  update(dt,playing,rhythm){if(!playing)for(const k in this.target)this.target[k]=0;const a=1-Math.exp(-dt*5);for(const k in this.target)this.value[k]+=(this.target[k]-this.value[k])*a;Object.assign(this.value,rhythm);return this.value;}
+  update(dt,playing,rhythm){
+    if(!playing){for(const k in this.target)this.target[k]=0;this.spectrumTarget.fill(0);}
+    const a=1-Math.exp(-dt*5),gain=this.sensitivity;
+    for(const k in this.target){this.smooth[k]+=(this.target[k]-this.smooth[k])*a;this.value[k]=Math.min(1,this.smooth[k]*gain);}
+    for(let i=0;i<64;i++){const target=this.spectrumTarget[i],speed=target>this.spectrumSmooth[i]?15:4;this.spectrumSmooth[i]+=(target-this.spectrumSmooth[i])*(1-Math.exp(-dt*speed));this.value.spectrum[i]=Math.min(1,this.spectrumSmooth[i]*gain);}
+    this.value.beat=Math.min(1,rhythm.beat*gain);this.value.bpm=rhythm.bpm;this.value.phase=rhythm.phase;
+    for(let i=0;i<4;i++){const p=rhythm.pulses[i],out=this.value.pulses[i];out.age=p?.age??2;out.strength=Math.min(1,(p?.strength??0)*gain);}
+    return this.value;
+  }
 }
 
 export class Player extends EventTarget {

diff --git a/js/kaleidoscope.js b/js/kaleidoscope.js
@@ -153,10 +153,10 @@ export class Kaleidoscope {
   const u=this.uniforms;u.time.value=time;for(const k of ['beat','bass','mid','high','energy'])u[k].value=music[k];
   u.intensity.value+=(this.intensity-u.intensity.value)*(1-Math.exp(-dt*4));
   u.sectors.value=this.symmetry;
-  if(show){u.hue.value=show.palette;u.saturation.value=show.saturation;u.showGain.value=show.atmosphere+show.accent*.4;}
+  if(show){u.hue.value=show.palette+(this.paletteOffset||0);u.saturation.value=show.saturation;u.showGain.value=show.atmosphere+show.accent*.4;}
   this.tint.setRGB(0,0,0);this.tintSecondary.setRGB(0,0,0);
   for(let i=0;i<5;i++){const a=this.palette[i],b=this.palette[(i+2)%5],w=this.weights[i];this.tint.r+=a.r*w;this.tint.g+=a.g*w;this.tint.b+=a.b*w;this.tintSecondary.r+=b.r*w;this.tintSecondary.g+=b.g*w;this.tintSecondary.b+=b.b*w;}
-  if(show){this.tint.offsetHSL(show.palette*.3,0,0);this.tintSecondary.offsetHSL(show.palette*.3,0,0);}
+  if(show){const hue=(show.palette+(this.paletteOffset||0))*.3;this.tint.offsetHSL(hue,0,0);this.tintSecondary.offsetHSL(hue,0,0);}
  }
  resize(w,h,dpr,centerX,centerY){this.uniforms.resolution.value.set(w,h);this.uniforms.center.value.set(centerX,centerY);this.targetTexture.setSize(Math.max(1,Math.round(w*dpr*.5)),Math.max(1,Math.round(h*dpr*.5)));}
  render(renderer){renderer.setRenderTarget(this.targetTexture);renderer.render(this.scene,this.camera);}

diff --git a/README.md b/README.md
@@ -18,9 +18,11 @@
 ## Управление
 
 - Шесть кнопок формы: плавное превращение за 2,1 секунды, в том числе при повторном выборе до завершения перехода.
-- **Авто** в обеих строках управляет единым музыкальным авторежиссёром и включено при старте. Он выбирает формы, стили, палитру, движение, атмосферу и камеру. Спокойная музыка даёт мягкие сцены, энергичная — более активные. Сцены длятся 22–28,5 секунды, переход ждёт уверенный удар до 2,5 секунд. Кульминационные вспышки запускаются только музыкальными атаками. Ручной выбор любой формы или стиля выключает весь авторежиссёр; повторное нажатие **Авто** возвращает его.
+- Единственная кнопка **Авто** над выбором стилей управляет единым музыкальным авторежиссёром и включено при старте. Он выбирает формы, стили, палитру, движение, атмосферу и камеру. Спокойная музыка даёт мягкие сцены, энергичная — более активные. Сцены длятся 22–28,5 секунды, переход ждёт уверенный удар до 2,5 секунд. Кульминационные вспышки запускаются только музыкальными атаками. Ручной выбор любой формы или стиля выключает весь авторежиссёр; повторное нажатие **Авто** возвращает его.
 - Строка **Калейдоскоп**: пять фонов — Мандала, Кристаллы, Космос, Цветы, Лазерное шоу. Плавное смешивание стилей длится 2,6 секунды, форм — 2,1 секунды.
 - **Симметрия** задаёт 6–24 зеркальных сектора, **Интенсивность** — яркость и насыщенность фоновых узоров. Эти настройки не меняют музыку и чувствительность ритмических импульсов.
+- В панели сначала расположен **Калейдоскоп**, затем **Форма**. Под формами — пять палитр и раскрываемая **Настройка фигуры**: чувствительность 0–200%, вращение 0–250%, яркость 20–200%, размер 50–135%, эффекты 0–200%, качество Авто / Высокое / Среднее / Экономное. На телефоне настройки изначально свёрнуты. Чувствительность меняет реакцию на звук, сохраняя время ударов и громкость проигрывателя. Размер меняет скульптуру; фонтан и ограничение камеры учитывают её габариты. Эффекты управляют фонтаном, волнами, дымкой, искрами и частицами. Автоматическое качество адаптируется к FPS; остальные режимы задают фиксированный уровень детализации.
+- **Музыкальный фонтан**: кольцо из 320 светящихся струй вокруг скульптуры. Высота струй следует 64 логарифмическим полосам спектра 40–16000 Гц, полученным из Meyda. Спектр плавно сглаживается отдельно на подъёме и спаде; в тишине струи опускаются. Пять повторений частотного спектра по кольцу создают равномерную композицию. Фонтан находится в 3D, включён в обычную сцену и запись видео. При «Эффекты = 0%» он скрывается вместе с атмосферой.
 - Перетаскивание мышью или пальцем: вращение скульптуры с инерцией и небольшой поворот камеры. Колесо мыши плавно приближает и отдаляет объект. Автоматическая камера уступает управление на пять секунд после взаимодействия, затем мягко возвращается. Поле зрения и расстояние ограничены так, чтобы объект не обрезался.
 - Воспроизведение, пауза, предыдущий/следующий трек, перемотка и громкость. Плейлист замыкается; переход смешивает два канала за 2,5 секунды (для очень коротких файлов — доступный остаток).
 - Можно добавлять файлы в текущий плейлист. Они хранятся в памяти вкладки; после перезагрузки их нужно выбрать снова.
@@ -45,6 +47,7 @@
 - `js/audio.js`: двухканальный проигрыватель с Web Audio GainNode; Meyda анализирует общую шину до пользовательской громкости. `MusicParameters` объединяет сглаженные `volume`, `bass`, `mid`, `high`, `energy` с независимыми ритмическими параметрами `beat`, `bpm`, `phase`, `pulses`.
 - `js/rhythm.js`: декодирование файла, асинхронное приведение к моно 11025 Гц через OfflineAudioContext, очередь анализа и кэш карты каждого трека в памяти. Следующая песня подготавливается во время текущей. До первого старта трека проигрыватель ждёт готовую карту; если анализ следующего ещё не завершился, он не запускает музыку без неё.
 - `js/beat-worker.js`: собственный анализ 40–200 Гц, энергия в окнах 23 мс с шагом около 6 мс, адаптивный порог атак и защита от повторов длительного баса. Автокорреляция наиболее активного фрагмента до 90 секунд, оценка половинного/двойного темпа, уточнение по атакам, фаза и уверенность сетки. Все события сохраняются для полной композиции. Сетка содержит только позиции, подтверждённые реальными атаками; тишина не заполняется искусственными ударами.
+- `js/fountain.js`: один instanced draw call для 320 струй, общий шейдер и переиспользуемый буфер спектра. Геометрия не создаётся в каждом кадре.
 - `js/visual.js`: общая UV-геометрия для шести форм, интерполяция позиций и сглаженных нормалей на GPU, цельная перламутровая поверхность без видимой сетки, мягкие блики, орбиты, буферные частицы, общая процедурная текстура дымки. Свечение рассчитывается в 35% линейного разрешения.
 - `js/kaleidoscope.js`: пять процедурных GPU-стилей с общей зеркальной развёрткой одного сектора. Независимые слои орнаментов, граней, звёзд, лепестков и лучей непрерывно меняют структуру. Фон рисуется в 50% линейного разрешения и затем помещается за 3D-сценой; яркость приглушена в центре вокруг скульптуры. Все стили используют один материал, геометрию и render target: переключение не создаёт и не оставляет неиспользуемые GPU-ресурсы. При закрытии страницы освобождаются текстуры, геометрии, материалы и render targets.
 - `js/app.js`: существующий интерфейс и передача общего музыкального состояния в визуализацию.
